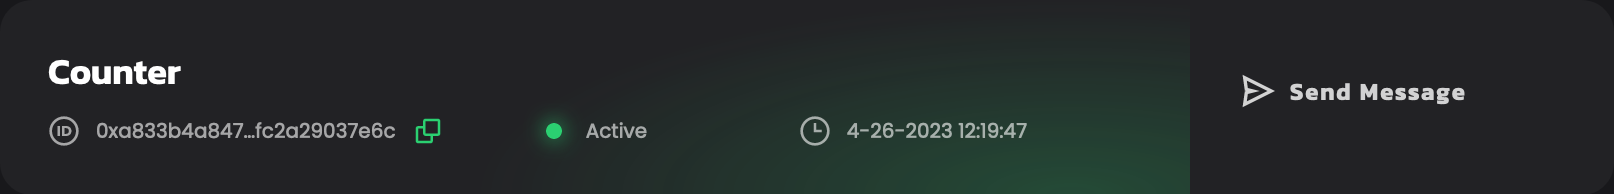
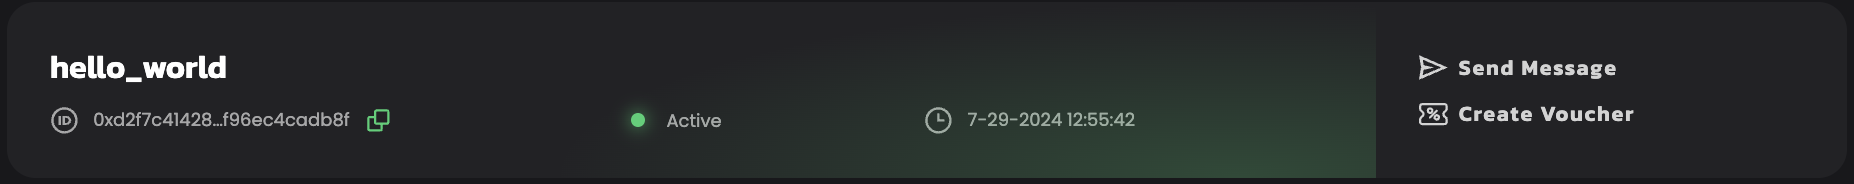
update getting started

diff --git a/docs/getting-started-in-5-minutes.md b/docs/getting-started-in-5-minutes.md
@@ -41,165 +41,143 @@ Don't miss this opportunity to become a pro Vara blockchain developer. Enroll no
     rustup target add wasm32-unknown-unknown
     ```
 
-4. Install the `wasm-proc` utility that optimizes compiled Wasm to be more compact.
-
-    ```bash
-    cargo install --locked --git https://github.com/gear-tech/gear.git wasm-proc
-    ```
-
 **_Note:_** If you use Windows, download and install [Build Tools for Visual Studio](https://visualstudio.microsoft.com/downloads/?q=build+tools).
 
 ## Creating your first Vara program
 
-1. For your convenience, it is recommended that you create a dedicated directory for everything Gear-related. The rest of the article will assume that you are using the paths suggested. Type to create a folder in your home directory:
+To create a program, use the following command to load the project template:
 
     ```bash
-    mkdir -p ~/gear
+    cargo-gbuild new hello_world
     ```
 
-2. Create a `contracts` directory inside `gear` and `cd` to it.
-
-    ```bash
-    mkdir -p ~/gear/contracts
-    cd ~/gear/contracts
-    ```
-
-3. Build a Rust library for the program:
-
-    ```bash
-    cargo new counter --lib
-    ```
-
-    Now, your `gear/contracts` directory tree should look like this:
+Now, your `hello_world` directory tree should look like this:
 
     ```
-    counter
+    hello_world
+    │
     ├── Cargo.toml
-    └── src
-        └── lib.rs
+    ├── app
+    │   ├── Cargo.toml
+    │   └── src
+    │       └── lib.rs
+    │
+    └── wasm
+        ├── Cargo.toml
+        ├── build.rs
+        └── src
+            └── lib.rs
+
+    
     ```
-
-4. It's time to write some code. Open `counter` with your favorite editor. For `VS Code` editor type:
-
-    ```bash
-    code ~/gear/contracts/counter
-    ```
-
-5. In the `counter` folder, configure `Cargo.toml` for our program to be properly built:
+    
+In `Cargo.toml`, the essential libraries required for building your first project have been included:
 
     ```toml
-    [package]
-    name = "counter"
+    [workspace]
+    resolver = "2"
+
+    members = [
+        "app", "wasm",
+    ]
+
+    [workspace.package]
     version = "0.1.0"
     edition = "2021"
+    license = "GPL-3.0"
 
-    # highlight-start
-    [lib]
-    crate-type = ["cdylib"]
-    # highlight-end
-
-    [dependencies]
-    # highlight-next-line
-    gstd = { git = "https://github.com/gear-tech/gear.git", tag = "v1.1.1" }
+    [workspace.dependencies]
+    gstd = "1.4.2"
+    gear-wasm-builder = "1.4.2"
+    sails-idl-gen = "0.2.0"
+    sails-rs = "0.2.0"
     ```
 
-6. Replace the default contents of `lib.rs` in the `counter` folder with the code for our first program.
+Let's move on to the main code:
 
-    This simple program accepts `inc`, `dec`, and `get` commands. Open `src/lib.rs` in your editor and paste the following code:
+This Rust code defines a simple **Hello, World!** program for the Vara Network. It consists of a `Program` struct with a method to instantiate it and another method to return a `HelloWorld` struct. The `HelloWorld` struct has a service method that returns the string *"Hello, world!"*. This example demonstrates the basic structure and functionality of a Vara program using the `sails_rs` library.
 
-    ```rust
+    ```rust title="hello_world/app/src/lib.rs"
     #![no_std]
+    use sails_rs::prelude::*;
 
-    use gstd::{msg, prelude::*};
+    #[derive(Default)]
+    pub struct Program;
 
-    static mut COUNTER: i32 = 0;
-
-    #[no_mangle]
-    extern "C" fn handle() {
-        let command = msg::load_bytes().expect("Invalid message");
-
-        let mut counter = unsafe { COUNTER };
-
-        match command.as_slice() {
-            b"inc" => counter += 1,
-            b"dec" => counter -= 1,
-            b"get" => {
-                msg::reply_bytes(format!("{counter}"), 0).expect("Unable to reply");
-            }
-            _ => (),
+    #[program]
+    impl Program {
+        pub fn new() -> Self {
+            Self
         }
+        pub fn hello_world(&self) -> HelloWorld {
+            HelloWorld::default()
+        }
+    }
 
-        unsafe { COUNTER = counter };
+    #[derive(Default)]
+    pub struct HelloWorld(());
+
+    #[service]
+    impl HelloWorld {
+        pub fn hello_world(&mut self) -> &'static str {
+            "Hello, world!"
+        }
     }
     ```
 
-7. Now compile the program to Wasm using `cargo`:
+The following code is needed to compile the project into WebAssembly and generate an **.idl** file for the program interface. It uses `gear_wasm_builder` to compile the code and the `sails_idl_gen` library to generate the **IDL** file.
 
-    ```bash
-    RUSTFLAGS="-C link-args=--import-memory -C linker-plugin-lto" \
-        cargo build --release --target=wasm32-unknown-unknown
+    ```rust title="hello_world/wasm/build.rs"
+    use hello_world_app::Program;
+    use sails_idl_gen::program;
+    use std::{env, path::PathBuf};
+
+    fn main() {
+        gear_wasm_builder::build();
+
+        program::generate_idl_to_file::<Program>(
+            PathBuf::from(env::var("CARGO_MANIFEST_DIR").unwrap()).join("hello_world.idl"),
+        )
+        .unwrap();
+    }
     ```
 
-    This command is quite verbose, so you can create cargo config and Rust toolchain override files to make it shorter. Create a `.cargo/config.toml` file in the `counter` directory with the following contents:
-
-    ```toml
-    [build]
-    target = "wasm32-unknown-unknown"
-    rustflags = [
-        "-C", "link-args=--import-memory",
-        "-C", "linker-plugin-lto",
-    ]
-    ```
-
-    And create a `rust-toolchain.toml` file in the `counter` directory with the following contents:
-
-    ```toml
-    [toolchain]
-    channel = "stable"
-    targets = ["wasm32-unknown-unknown"]
-    profile = "default"
-    ```
-
-    Now build your program with a single command:
+Now build your program with a single command:
 
     ```bash
     cargo build --release
     ```
 
-    If everything goes well, your working directory should now have a `target` directory that looks like this:
+If everything is executed successfully, your working directory should now contain a `target` directory structured as follows:
 
     ```
-    target
+    hello_world
     ├── ...
-    └── wasm32-unknown-unknown
-        └── release
-            ├── ...
-            └── counter.wasm    <---- this is our built .wasm file
+    ├── target
+        ├── ...
+        └── wasm32-unknown-unknown
+            └── release
+                ├── hello_world_wasm.wasm       <---- this is our built .wasm file
+                └── hello_world_wasm.opt.wasm   <---- this is optimized .wasm file
     ```
 
-8. The last step is to optimize the Wasm binary using `wasm-proc`:
+In addition, the interface file `hello_world.idl` should have been generated in the `wasm` project directory.
 
-    ```bash
-    wasm-proc target/wasm32-unknown-unknown/release/counter.wasm
+    ```idl title="hello_world/wasm/hello_world.idl"
+    constructor {
+      New : ();
+    };
+
+    service HelloWorld {
+      HelloWorld : () -> str;
+    };
     ```
 
-    A new Wasm file will be created:
+Now the `target/wasm32-unknown-unknown/release` directory contains two required Wasm binaries:
 
-    ```bash
-    target
-    ├── ...
-    └── wasm32-unknown-unknown
-        └── release
-            ├── ...
-            ├── counter.wasm        <---- this is our built .wasm file
-            # highlight-next-line
-            └── counter.opt.wasm    <---- this is optimized .wasm file
-    ```
+- `hello_world_wasm.wasm` is the output Wasm binary built from source files
+- `hello_world_wasm.opt.wasm` is the optimized Wasm aimed to be uploaded to the blockchain
 
-    Now the `target/wasm32-unknown-unknown/release` directory contains two required Wasm binaries:
-
-    - `counter.wasm` is the output Wasm binary built from source files
-    - `counter.opt.wasm` is the optimized Wasm aimed to be uploaded to the blockchain
 
 ## Deploy your program to the Testnet
 
@@ -274,7 +252,7 @@ The red dot status for a program indicates init failure. Try to upload the progr
 
 1. Now, try sending your newly uploaded program a message to see how it responds! Click the <kbd>Send message</kbd> button.
 
-2. In the `Payload` field of the opened dialog type `0x696E63` (this is `inc` encoded in hex). Click <kbd>Calculate Gas</kbd> button, the Gas limit will be set automatically. Now click the <kbd>Send Message</kbd> button.
+2. Click <kbd>Calculate Gas</kbd> button, the Gas limit will be set automatically. Now click the <kbd>Send Message</kbd> button.
 
     ![Send form](/assets/getting-started/send-request.png)
 
@@ -284,19 +262,16 @@ The red dot status for a program indicates init failure. Try to upload the progr
 
     ![Log](/assets/getting-started/message-log.png)
 
-    Now you have sent an increment command to the program. After processing the counter will be incremented to `1`.
+    Now you have sent a HelloWorld command to the program. After processing the program will also greet you.
 
-5. Repeat step 2 with `0x676574` payload (this is `get` command). This will send a get command to the program.
+5. The message pane should now display new message regarding sending, along with any corresponding reply.
 
-6. Press the <kbd>Mailbox</kbd> button to enter the mailbox and find the reply.
+    ![Log](/assets/getting-started/messages.png)
 
-    ![Mailbox reply](/assets/getting-started/mailbox-reply.png)
+6. In the response details, the expected "**Hello, World!**" response can be seen in the payload.
 
-    :::note
+    ![Log](/assets/getting-started/reply.png)
 
-    The reply is in the mailbox for a limited time depending on the gas limit. If you don't see the reply, try resending the `0x676574` (`get`) message with the gas limit increasing and go to the mailbox immediately after sending the message.
-
-    :::
 ---
 
 ## Further reading
